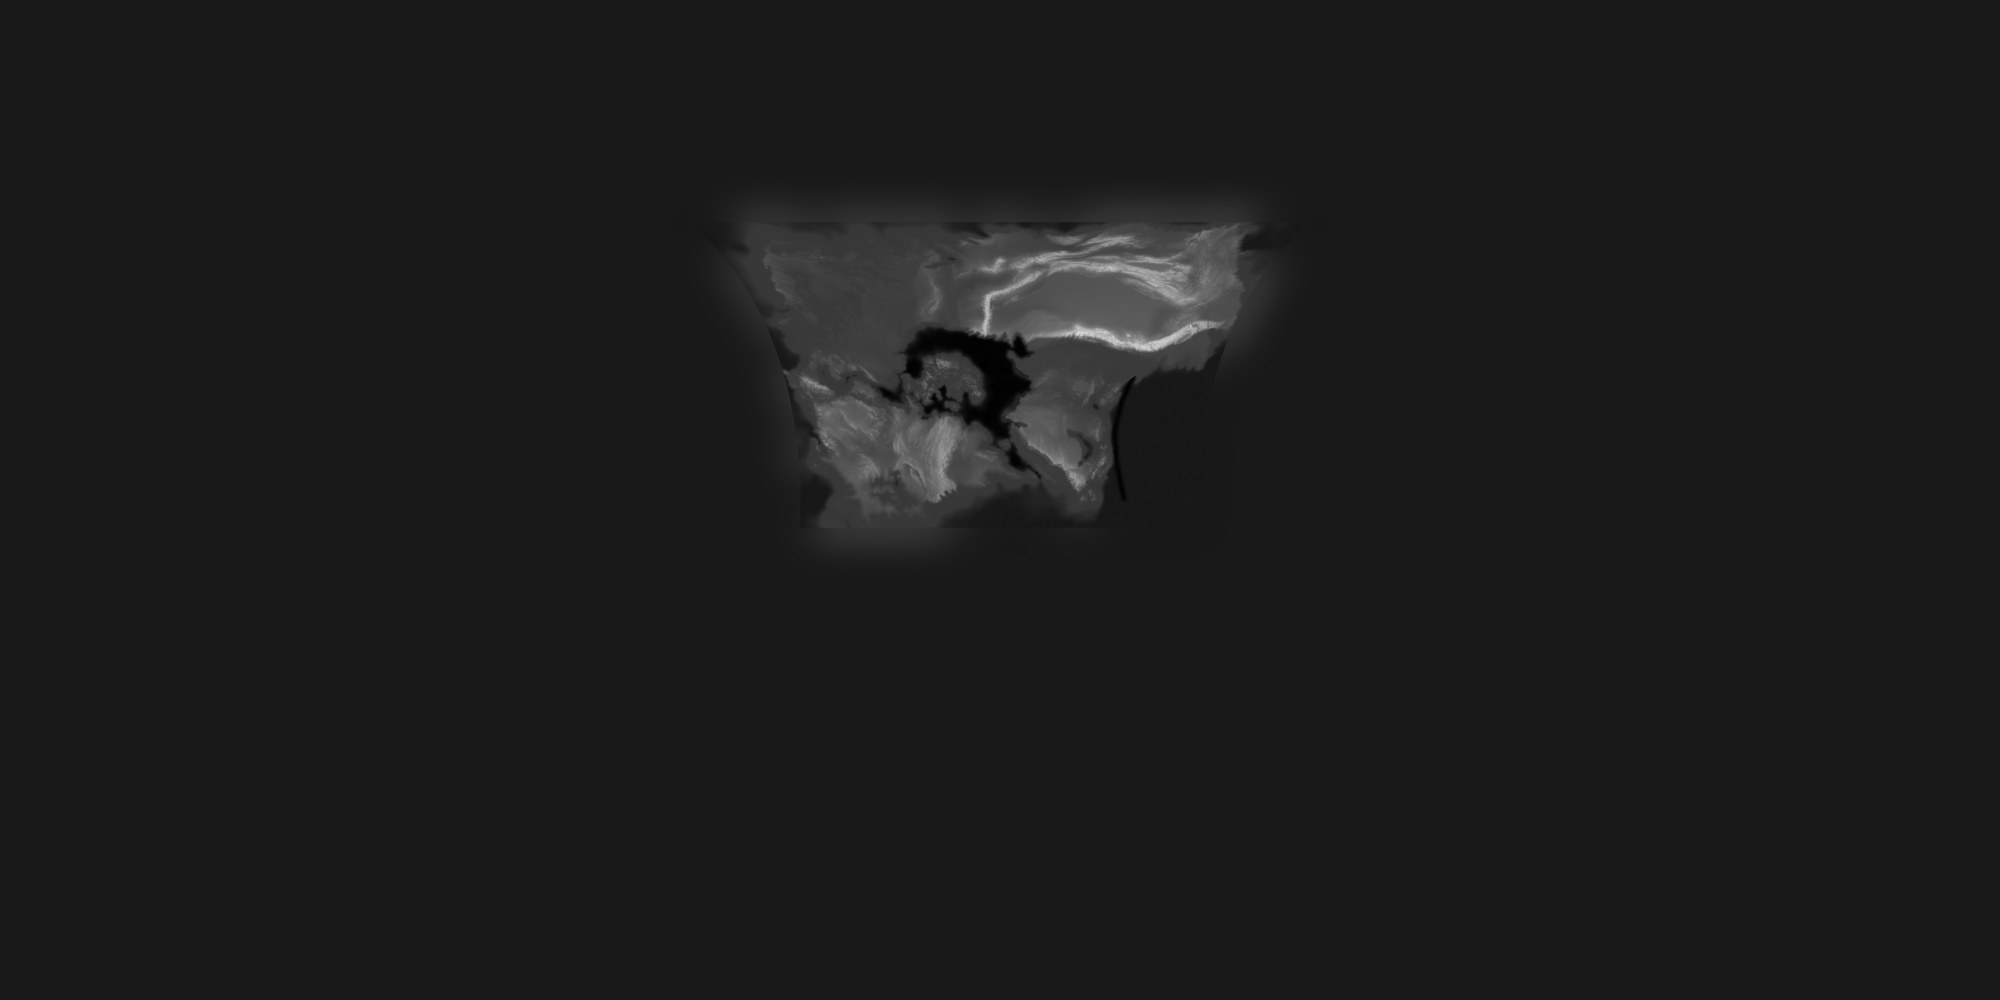
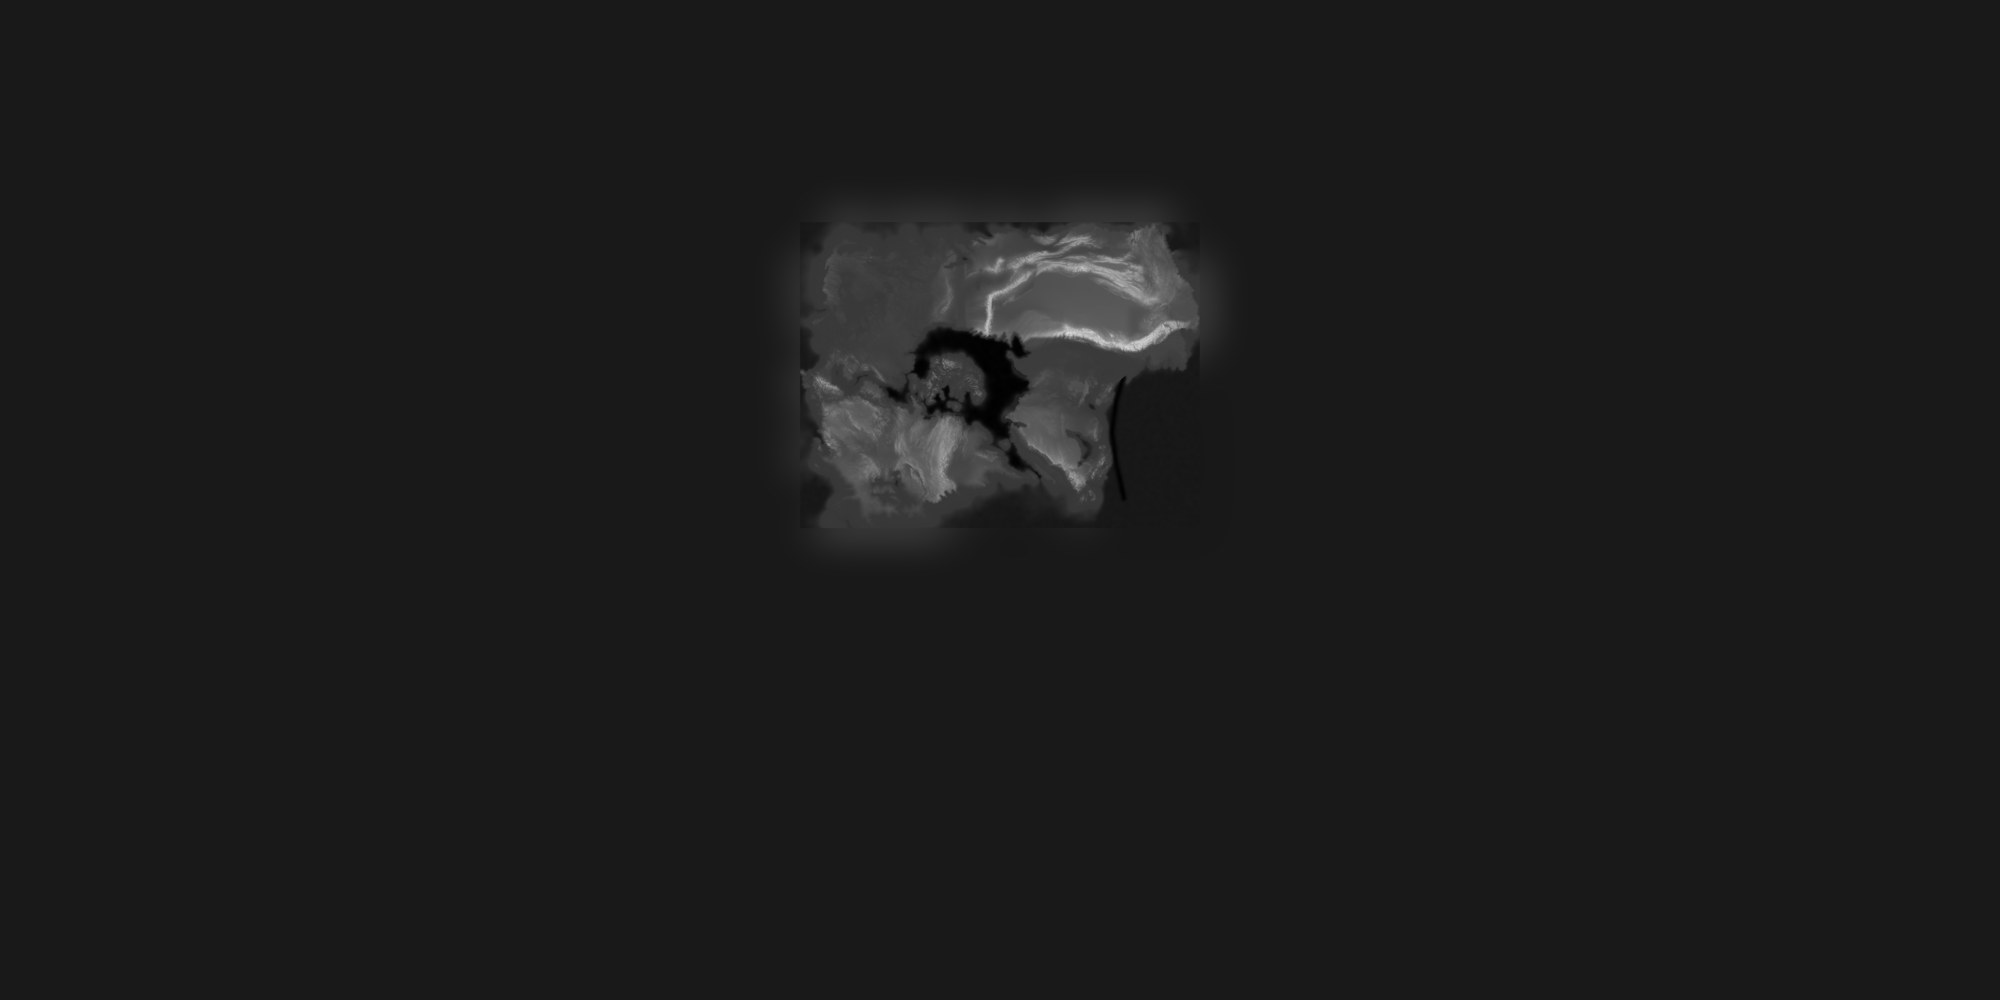
Tarih: Merak dünya görselleri düz yerleşimle (bükülmeden, 50°K ile 5°G)
Claude-Session: https://claude.ai/code/session_01TrTgWsQ7k9npTcPJkL6aYQ

diff --git a/tarih/merak_dunya.py b/tarih/merak_dunya.py
@@ -1,7 +1,7 @@
 """Merak için tüm dünya (eşdikdörtgen, 2:1) görselleri: kıta bizim ölçeğimizle doğru enlem ve boylamlara oturtulur.
 
-Bizim harita: 8000 km genişlik, üst kenar 50°K, alt kenar yaklaşık 5,07°G (1 görüntü pikseli = 4 km). Her enlemde boylam açıklığı
-x_km / (111,32 × cos enlem) ile hesaplanır, yani kıta kuzeye doğru eşdikdörtgen projeksiyonda genişler (küre üzerinde doğru şekil).
+Bizim harita: 8000 km genişlik, üst kenar 50°K, alt kenar yaklaşık 5,07°G (1 görüntü pikseli = 4 km). Harita bükülmeden, oranı korunarak konur
+(sahibin isteği): bir maske pikseli enlemde ve boylamda aynı derece.
 Kıtanın ortası MERKEZ_BOYLAM'da. Merak'ta "Fill world" ile yerleştirilir.
 Kodlama (Merak): siyah deniz tabanı, beyaz en yüksek, deniz seviyesi %22 gri.
 """
@@ -29,8 +29,10 @@ def main():
     satir = (50 - lat) * 111.2 / km_px                 # maske satırı
     zz = np.where(kara, np.maximum(z, 1.0), np.minimum(zt, -5.0))
     yuk = np.full((H, W), np.nan, np.float32); mk = np.zeros((H, W), bool)
+    # düz yerleşim (sahibin isteği): harita bükülmeden konur; enlem 50°K ile 5°G, boylam açıklığı oran korunarak (her satırda aynı)
+    der_px = (50 - (50 - my * km_px / 111.2)) / my      # maske pikseli başına derece (enlem ve boylamda aynı)
     for i in np.nonzero((satir >= 0) & (satir <= my - 1))[0]:
-        sutun = (lon - MERKEZ_BOYLAM) * 111.32 * np.cos(np.radians(lat[i])) / km_px + mx / 2
+        sutun = (lon - MERKEZ_BOYLAM) / der_px + mx / 2
         ok = (sutun >= 0) & (sutun <= mx - 1)
         if not ok.any():
             continue
